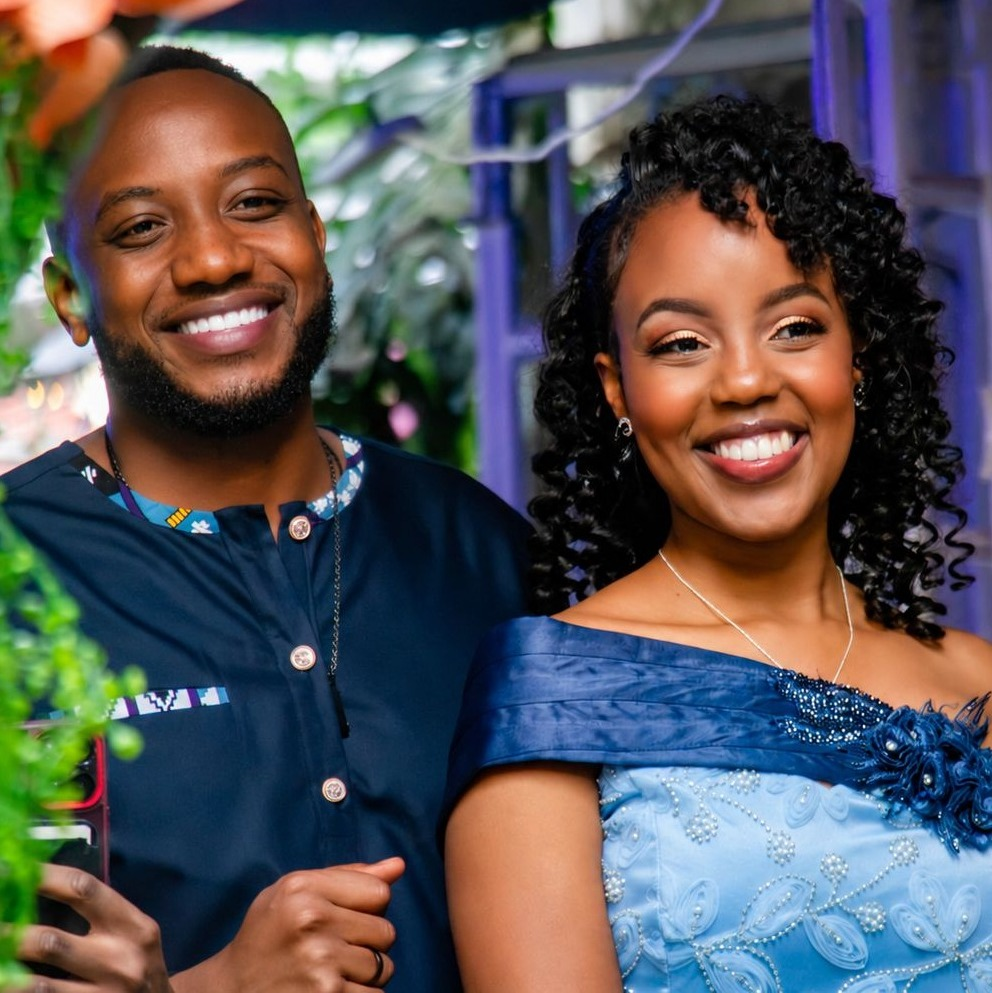
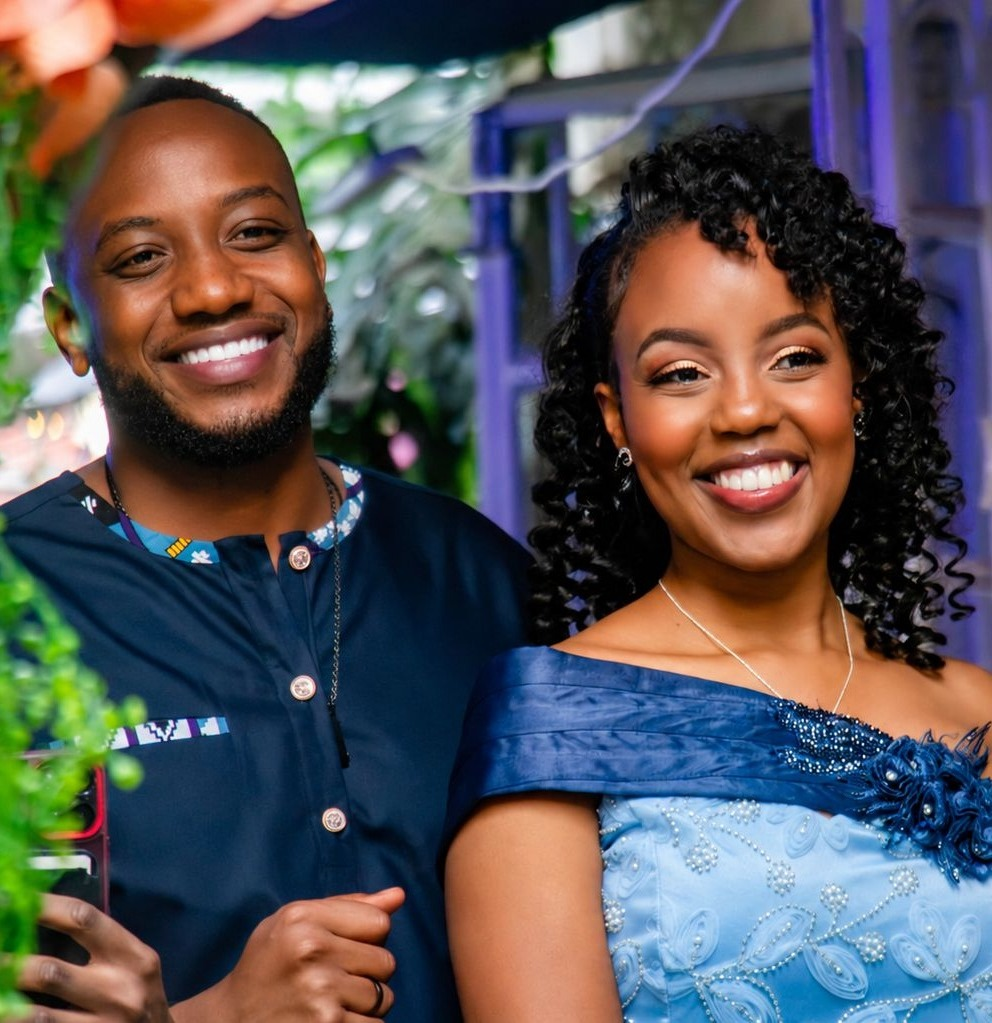
fix:updated photo styling

diff --git a/ruby-and-israel-wedding/src/styles/tokens.css b/ruby-and-israel-wedding/src/styles/tokens.css
@@ -182,12 +182,12 @@ body,
     url("/images/Gallery_12_couple.jpg"),
     linear-gradient(155deg, #3a4d68 0%, #54698a 42%, #7e93b0 78%, #96a8c4 100%);
   background-size: cover, cover, cover, cover, cover;
-  background-position: center, center, center, 45% 15%, center;
+  background-position: center, center, center, 43% 5%, center;
   background-repeat: no-repeat;
 }
 @media (max-width: 700px) {
   .wed-app .hero-photo {
-    background-position: center, center, center, 41% 10%, center;
+    background-position: center, center, center, 43% 0%, center;
   }
 }
 @media (max-width: 700px) {
